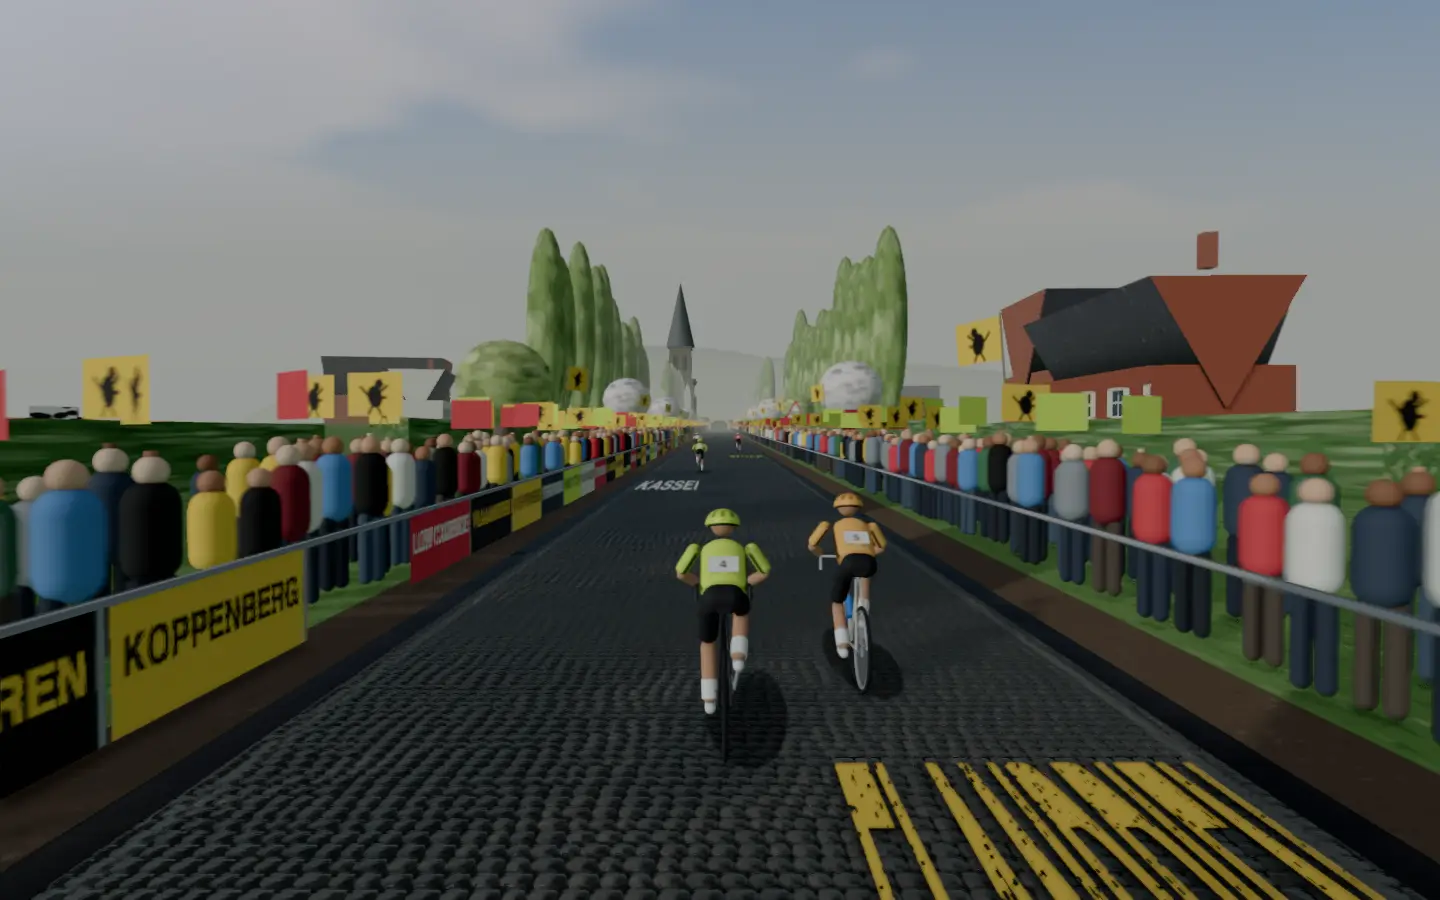
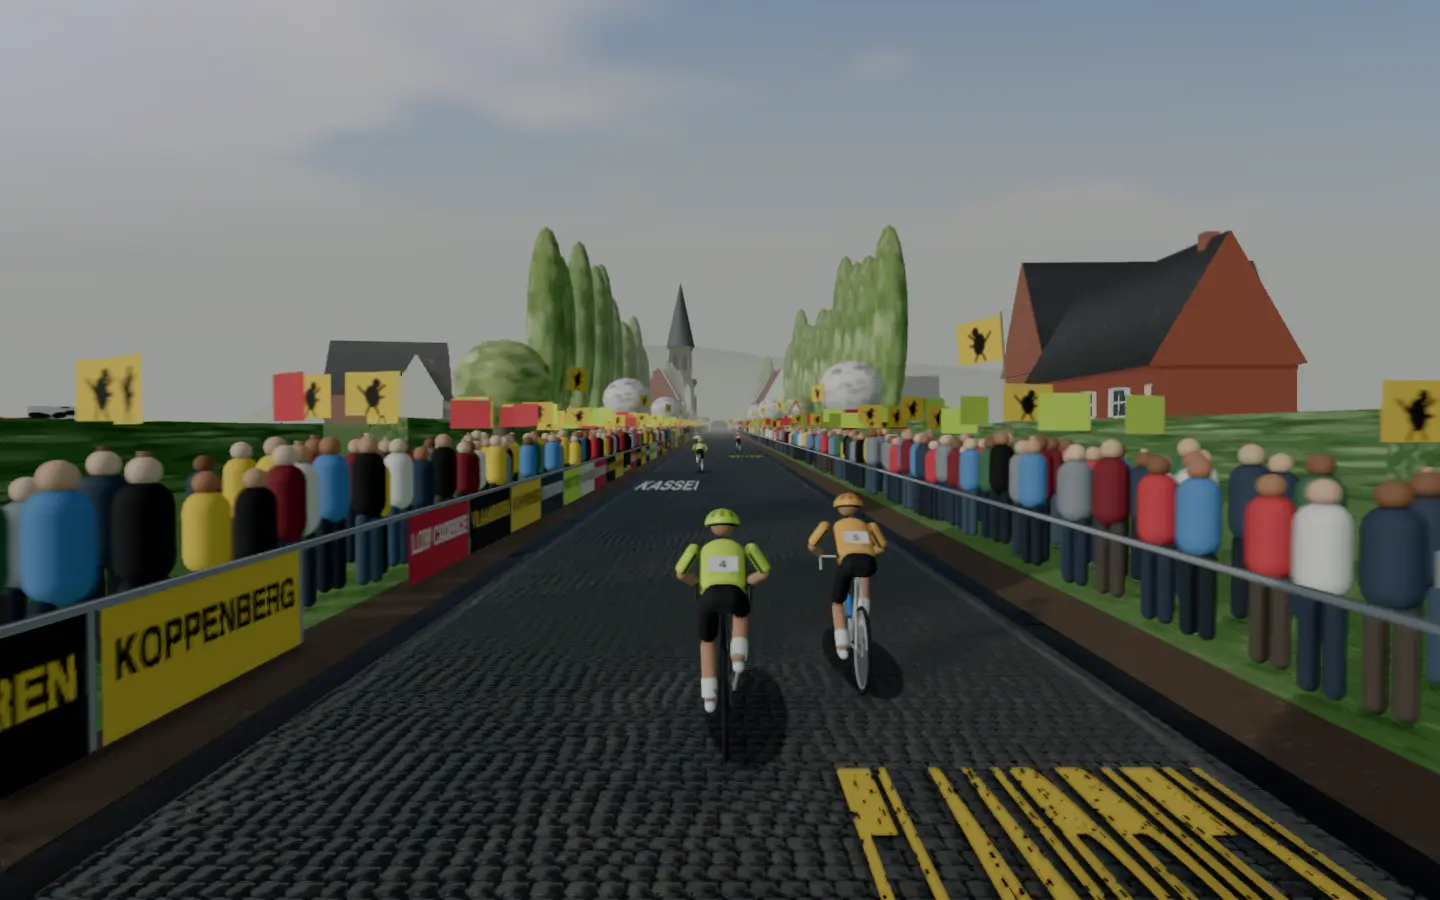
Put proper gable roofs on the Koppenberg's farms and line its lane with a hamlet
The farm roofs' triangular prism was turned edge-down, so every farmhouse and
barn wore its roof upside down. It now stands ridge-up as a steep gable. A
hamlet of two-storey brick, whitewashed and cream houses lines the lane,
fronts to the cobbles, where the hedges stop. Render quality 79% -> 81%
(geometry 10 -> 12).

diff --git a/frontend/projects/wattzup/src/app/core/world-koppenberg.ts b/frontend/projects/wattzup/src/app/core/world-koppenberg.ts
@@ -55,6 +55,8 @@ const CROWD_NEAR = 4.3;
 const CROWD_FAR = 7.4;
 /** Hedges line the fields; farms and trees stand back in them. */
 const HEDGE = 12;
+/** A hamlet of brick houses lines the lane between these offsets, where the hedges stop. */
+const HAMLET: readonly [number, number] = [262, 318];
 /** The hill the cobbles climb, its church on the crest ahead, hazed by hand. */
 const HILL_AHEAD = 560;
 /** Melden's church on its knoll just left of the cobbles, in front of the mist's mid curtain. */
@@ -262,6 +264,8 @@ export class KoppenbergStreet implements SceneStreet {
     const hedge = this.material({ map: this.track(leafTexture('#4f7a3a', 349)), roughness: 1 });
     for (const side of [-1, 1] as const) {
       for (let offset = 0; offset < LOOP; offset += 30) {
+        const at = offset + (side > 0 ? 0 : 15);
+        if (at + 12 > HAMLET[0] && at - 12 < HAMLET[1]) continue;
         const holder = new Group();
         const mesh = new Mesh(this.unit, hedge);
         mesh.scale.set(1.4, 1.5, 24);
@@ -269,12 +273,7 @@ export class KoppenbergStreet implements SceneStreet {
         mesh.castShadow = true;
         holder.add(mesh);
         this.group.add(holder);
-        this.props.push({
-          mesh: holder,
-          offset: offset + (side > 0 ? 0 : 15),
-          every: LOOP,
-          x: side * HEDGE,
-        });
+        this.props.push({ mesh: holder, offset: at, every: LOOP, x: side * HEDGE });
       }
     }
   }
@@ -286,8 +285,9 @@ export class KoppenbergStreet implements SceneStreet {
   private addFarms(): void {
     const random = seeded(353);
     const prism = new CylinderGeometry(1, 1, 1, 3, 1);
+    // Its axis along x, then turned so one edge points up as the ridge.
     prism.rotateZ(Math.PI / 2);
-    prism.rotateX(Math.PI / 2);
+    prism.rotateX(-Math.PI / 2);
     this.disposables.push(prism);
     const looks = FARMS.map((f, i) => ({
       front: this.material({ map: this.track(farmFrontTexture(f.wall, f.shutter, 359 + i)) }),
@@ -349,6 +349,35 @@ export class KoppenbergStreet implements SceneStreet {
       farm.rotation.y = (side > 0 ? -Math.PI / 2 : Math.PI / 2) + (random() - 0.5) * 0.5;
       this.group.add(farm);
       this.props.push({ mesh: farm, offset, every: LOOP, x: side * (24 + random() * 30) });
+    }
+    // The hamlet: two-storey houses in a row on each side of the lane, fronts to the cobbles,
+    // in brick, whitewash and cream, their ridges stepping with each house's height.
+    for (const side of [-1, 1] as const) {
+      let offset = HAMLET[0] + (side > 0 ? 0 : 4);
+      let k = side > 0 ? 0 : 2;
+      while (offset < HAMLET[1] - 6) {
+        const width = 7 + random() * 3;
+        const look = looks[k % looks.length]!;
+        const height = 5.4 + random() * 1.6;
+        const brickFront = k % 3 === 1;
+        const { house, ridge } = building(
+          width,
+          height,
+          8,
+          brickFront ? brick : look.front,
+          brickFront ? brick : look.wall,
+          look.roof,
+        );
+        const chimney = new Mesh(this.unit, brick);
+        chimney.scale.set(0.6, 1.4, 0.6);
+        chimney.position.set(width / 2 - 1, ridge - 0.9, -1.5);
+        house.add(chimney);
+        house.rotation.y = side > 0 ? -Math.PI / 2 : Math.PI / 2;
+        this.group.add(house);
+        this.props.push({ mesh: house, offset: offset + width / 2, every: LOOP, x: side * 13.5 });
+        offset += width + (random() < 0.25 ? 3 : 0.1);
+        k++;
+      }
     }
   }
 

diff --git a/docs/class-worlds.md b/docs/class-worlds.md
@@ -19,7 +19,7 @@ Every class in `frontend/public/classes.json`, with its World Ride scene. Render
 | 13 | 10 On 20 Off Max Sprints | Venice Beach Boardwalk | 80% | Skaters glide past street performers, mural-painted shopfronts and towering palms along Venice Beach's Ocean Front Walk, the Santa Monica Pier's Ferris wheel turning over the bay ahead. The two one-minute efforts warm up past Muscle Beach, and the eighteen ten-second sprints each burst between the palms before twenty seconds cruising in the ocean breeze. |
 | 14 | 15 Minute Cardio HIIT | Central Park Loop | 65% | Early laps of Central Park past the reservoir and Bethesda Fountain, joggers and carriages sharing the drive. |
 | 15 | 15 Minute Strength Workout | Lisbon Tram Hills (concept) |  | Steep cobbled Alfama lanes beside yellow trams; grind each climb toward the castle above the Tagus. |
-| 16 | Low Cadence Strength Builder | Koppenberg Cobbles | 79% | Spring mist hangs over the Flemish farm lanes below the Koppenberg, where fans waving Flanders' lion pack the grass banks and Melden's church tower watches from the wooded crest. The two one-minute openers roll over the lanes' first rises, and the three three-minute heavy-gear efforts grind up the slick Koppenberg cobbles past the crowds before each minute's recovery rolls back down among the poplars. |
+| 16 | Low Cadence Strength Builder | Koppenberg Cobbles | 81% | Spring mist hangs over the Flemish farm lanes below the Koppenberg, where fans waving Flanders' lion pack the grass banks and Melden's church tower watches from the wooded crest. The two one-minute openers roll over the lanes' first rises, and the three three-minute heavy-gear efforts grind up the slick Koppenberg cobbles past the crowds before each minute's recovery rolls back down among the poplars. |
 | 17 | Level Up Your Cadence | Ghent Six-Day | 70% | Six-day racing under the Kuipke's wooden banking; cadence lifts with every lap the crowd counts. |
 | 18 | Nasty Pasty Sprint Session | Cornish Harbour (concept) |  | Fishing boats, pasty shops and slate cottages in a Cornwall harbour; sprint the quay between steep lanes. |
 | 19 | 15 Minutes HIIT Sprinting Efforts | Golden Gate Park (concept) |  | Eucalyptus and fog through San Francisco's park; sprint past the bison paddock toward Ocean Beach. |

diff --git a/docs/detailed-designs/world-ride/draw-class-scene/README.md b/docs/detailed-designs/world-ride/draw-class-scene/README.md
@@ -184,7 +184,7 @@ None.
   - the lane ridden on Old Town's cobbles (`cobbleTextures`, chosen in `world-renderer.ts` for the cobbled scenes), wet and slick, with the fans' writing every 25 m, muddy edges and low barriers hung with the race's banners (KOPPENBERG, VLAANDEREN, KASSEIEN);
   - grass banks rising from the barriers, packed with the shared crowd in Flanders' yellow and black, a third waving the lion flag, more lion flags on tall poles stuck in the banks, and a red-edged 22% warning sign and a red inflatable KOPPENBERG arch once a loop;
   - hawthorn hedges along the fields, rows of Lombardy poplars, pollard willows and blossom by the lane, and fields in strips of young wheat, ploughed earth, pasture and rapeseed;
-  - farms in the fields: long whitewashed or brick houses with shuttered windows, steep red-tile or slate roofs and chimneys, brick barns with tarred roofs across their yards, black-and-white cows grazing and a tractor by a gate;
+  - farms in the fields: long whitewashed or brick houses with shuttered windows, steep red-tile or slate roofs and chimneys, brick barns with tarred roofs across their yards, black-and-white cows grazing and a tractor by a gate, and a hamlet of two-storey brick, whitewashed and cream houses lining the lane, fronts to the cobbles, where the hedges stop;
   - ahead, the wooded hill the cobbles climb, and Melden's church on its knoll 400 m ahead just left of the cobbles: a grey stone nave under slate and, facing the riders, a buttressed tower with louvred belfry openings, a clock and a tall slate spire with a gilt cross, hazed lightly by hand;
   - the spring mist, drawn by the street since the physical sky takes no fog: soft curtains across the horizon (one behind the hill veiling the lower sky, one between the hill and the church so the church stands out against it, and a thin one in front) and banks of mist lying low over the fields, drifting on the street's clock.
 
